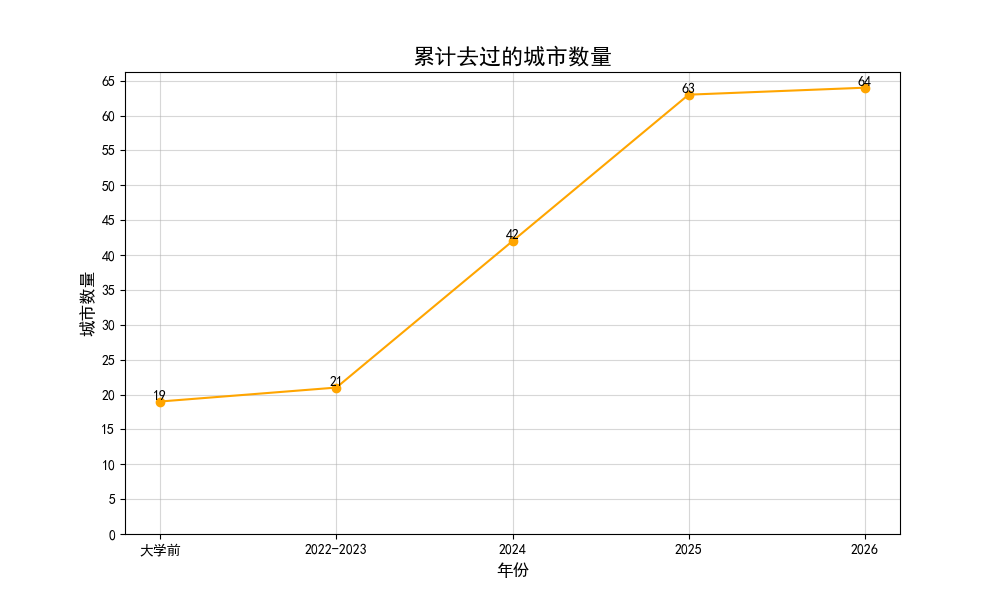
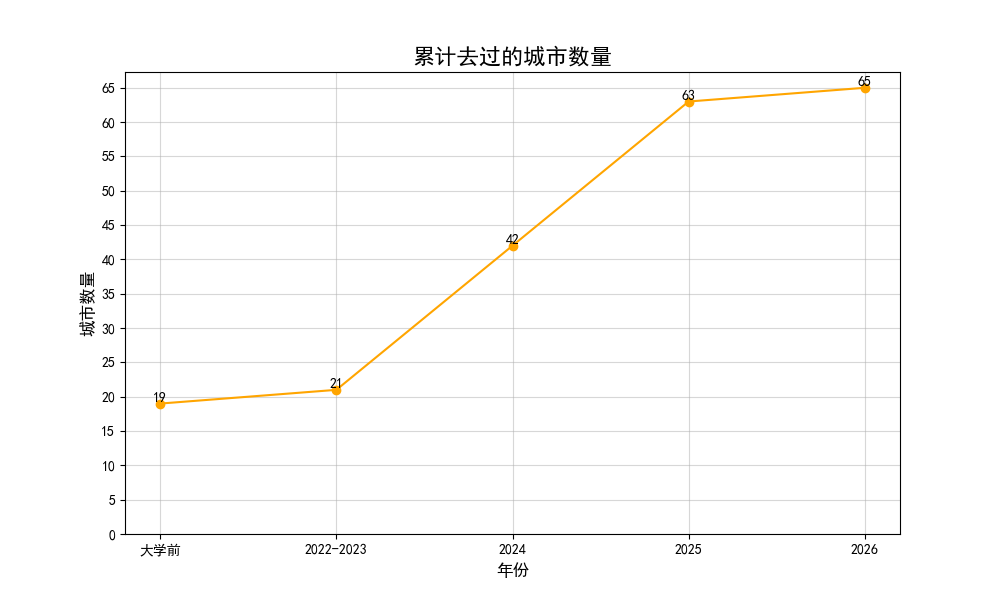
commit

Changed region(s): [[0.093, 0.12, 0.899, 0.72], [0.124, 0.81, 0.899, 0.84], [0.124, 0.75, 0.899, 0.78]]

diff --git a/draw.py b/draw.py
@@ -7,8 +7,8 @@ rcParams['axes.unicode_minus'] = False   # 解决负号显示问题
 
 # 数据
 years = ["大学前", "2022-2023", "2024", "2025", "2026"]
-new_cities = [19, 2, 21, 21, 1]  # 新到的城市
-cumulative_cities = [19, 21, 42, 63, 64]  # 累计去过的城市
+new_cities = [19, 2, 21, 21, 2]  # 新到的城市
+cumulative_cities = [19, 21, 42, 63, 65]  # 累计去过的城市
 
 # 创建图形并绘制新到的城市折线图
 plt.figure(figsize=(10, 6))

diff --git a/source/_posts/行旅杂记.md b/source/_posts/行旅杂记.md
@@ -118,7 +118,7 @@ date: 2024-11-15 00:00:00
 
 本年共新到21个城市，铁路出行44次（高铁/动车35次，普铁9次），总里程为13033km；飞机出行3次，总里程为3890km。
 
-至此，共计去过18个省级行政区，64个城市（含省直辖县级行政区，不含普通县级市）：
+至此，共计去过19个省级行政区，65个城市（含省直辖县级行政区，不含普通县级市）：
 - 省
   - 广东（15/21）：湛江、广州、茂名、东莞、河源、惠州、阳江、江门、佛山、中山、珠海、韶关、揭阳、潮州、深圳
   - 贵州（5/9）：贵阳、黔南、黔东南、安顺、铜仁
@@ -134,6 +134,7 @@ date: 2024-11-15 00:00:00
   - 山东（1/16）：枣庄
   - 福建（2/9）：福州、龙岩
   - 河北（2/11）：承德、保定、秦皇岛
+  - 辽宁（1/14）：葫芦岛
 - 直辖市
   - 北京、上海、天津
 - 自治区

diff --git a/renew.md b/renew.md
@@ -555,3 +555,6 @@
 
 1.3
    1. 加戴叔伦诗歌
+
+1.4
+   1. 加葫芦岛
